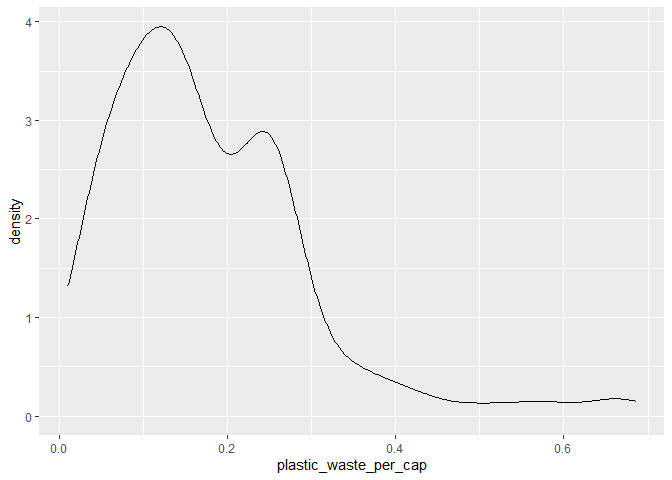
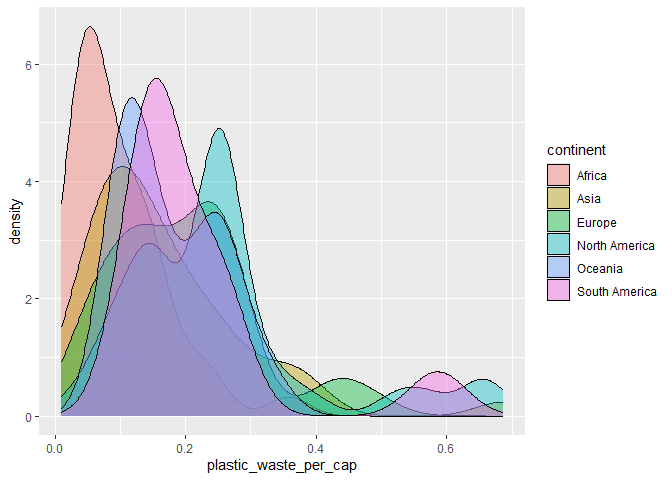
pogressuion exercice 5

diff --git a/lab-02.md b/lab-02.md
@@ -34,53 +34,104 @@ ggplot(plastic_waste,
 
 ![](lab-02_files/figure-gfm/plastic-waste-continent-1.png)<!-- -->
 
+on observe que l’Afrique et l’Asie produisent très peu de déchets
+plastiques par habitants, avec des distributions concentrées près de 0.
+L’Europe et l’Amérique du Nord présentent aussi des valeurs faibles en
+moyenne, mais avec une variabilité un peu plus grande. En revanche,
+L’Océanie et l’Amérique du Sud affichent des niveaux plus élevés de
+déchets plastiques par habitant dans certains pays, mais restent
+toujours dans la moyenne.
+
 ### Exercise 2
 
 ``` r
 ggplot(plastic_waste,
-       aes(x = plastic_waste_per_cap)) +
-  geom_density()
+       aes(x = plastic_waste_per_cap,
+           fill = continent)) +
+  geom_density(adjust = 1,
+               alpha = 0.4)
 ```
 
 ![](lab-02_files/figure-gfm/plastic-waste-density-1.png)<!-- -->
 
-Réponse à la question…
+le reglage de la couleur (color et fill) et le réglage de la
+transparence (alpha) ne se trouvent pas au même endroit car, dans aes,
+nous sommes dans le mapping et celui-ci détermine la propriété en
+fonction d’une donnée. Tandis que, dans le geom_density(), nous sommes
+dans le setting, la propriété est ici appliquée à tout le graphique.
 
 ### Exercise 3
 
 Boxplot:
 
 ``` r
-# insert code here
+ggplot(plastic_waste,
+       aes(x = continent, y = plastic_waste_per_cap)) +
+  geom_boxplot()
 ```
+
+![](lab-02_files/figure-gfm/plastic-waste-boxplot-1.png)<!-- -->
 
 Violin plot:
 
 ``` r
-# insert code here
+ggplot(plastic_waste,
+       aes(x = continent, y = plastic_waste_per_cap)) +
+  geom_violin()
 ```
 
-Réponse à la question…
+![](lab-02_files/figure-gfm/plastic-waste-violin-1.png)<!-- -->
+
+Le violin plot met en évidence les formes de distributions différentes
+selon les continents: l’Afrique et l’Asie sont très concentrés vers le
+bas (faible production de déchets), alors que l’Europe et l’Amerique du
+Nord sont plus dispersées et montent vers le haut. quant au boxplot, il
+resume bien statisquement. il revele que la médiane de l’Afrique est
+plus basse que celle de l’Europe et de l’Amérique du Nord.
 
 ### Exercise 4
 
 ``` r
-# insert code here
+ggplot(plastic_waste,
+       aes(x = plastic_waste_per_cap, y = mismanaged_plastic_waste_per_cap,
+           color = continent)) +
+  geom_point() 
 ```
 
-Réponse à la question…
+![](lab-02_files/figure-gfm/plastic-waste-mismanaged-1.png)<!-- -->
+
+La relation entre la quantité de dechets et la quantité de déchets non
+gérés est positive. quand la quantité de dechets plastiques augmente, la
+quantité de déchets plastiques non gérés a tendance à augmenter aussi.
+cependant, la relation n’est pas parfaitement linéaire. certains pays,
+l’Afrique et l’Asie produisent peu de dechets mais les gèrent mal.
+Tanadis que, les autres produisent assez, mais les gèrent bien.
 
 ### Exercise 5
 
 ``` r
-# insert code here
+ggplot(plastic_waste,
+       aes(x = plastic_waste_per_cap, y = total_pop)) +
+  geom_point()
 ```
+
+    ## Warning: Removed 10 rows containing missing values or values outside the scale range
+    ## (`geom_point()`).
+
+![](lab-02_files/figure-gfm/plastic-waste-population-total-1.png)<!-- -->
 
 ``` r
-# insert code here
+ggplot(plastic_waste,
+       aes(x = plastic_waste_per_cap, y = coastal_pop)) +
+  geom_point()
 ```
 
-Réponse à la question…
+![](lab-02_files/figure-gfm/plastic-waste-population-coastal-1.png)<!-- -->
+
+Il n’existe pas de relation forte entre la quantité de déchets
+plastiques par habitant et le nombre d’habitants (total ou cotiers). les
+deux nuages de points montrent une dispersion sans tendance, donc aucune
+des deux relations n’est plus forte que l’autre.
 
 ## Conclusion
 
